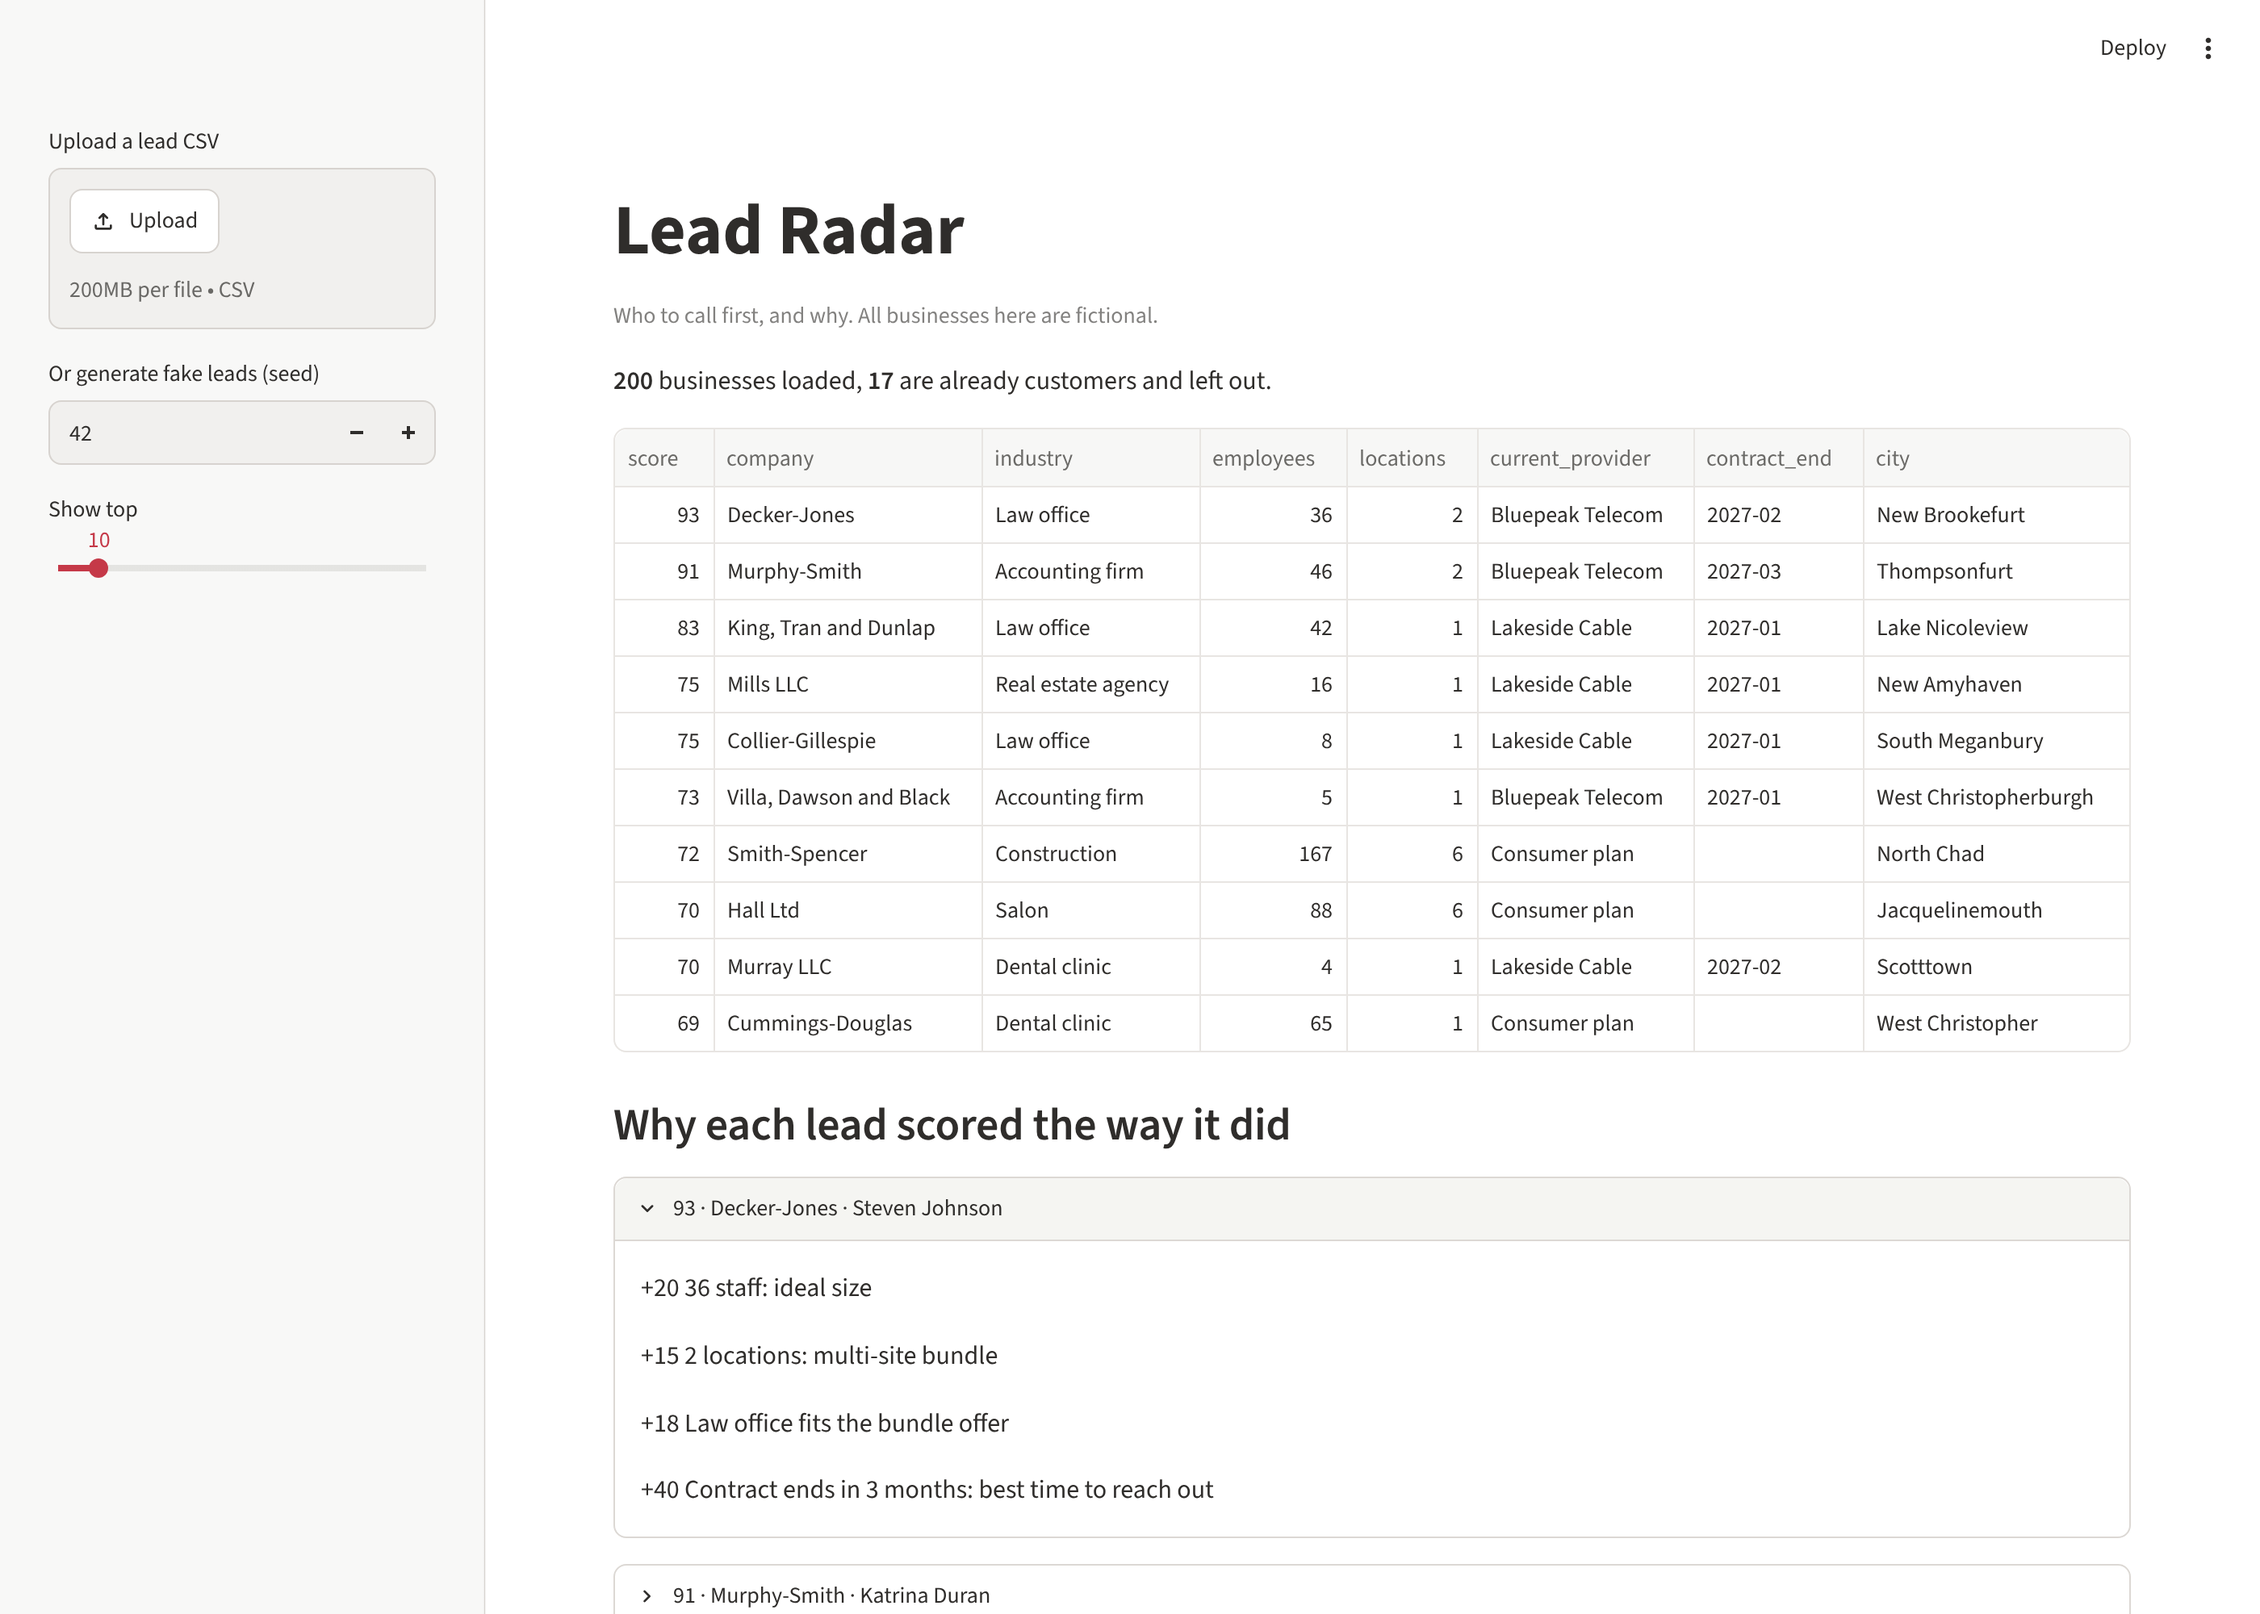
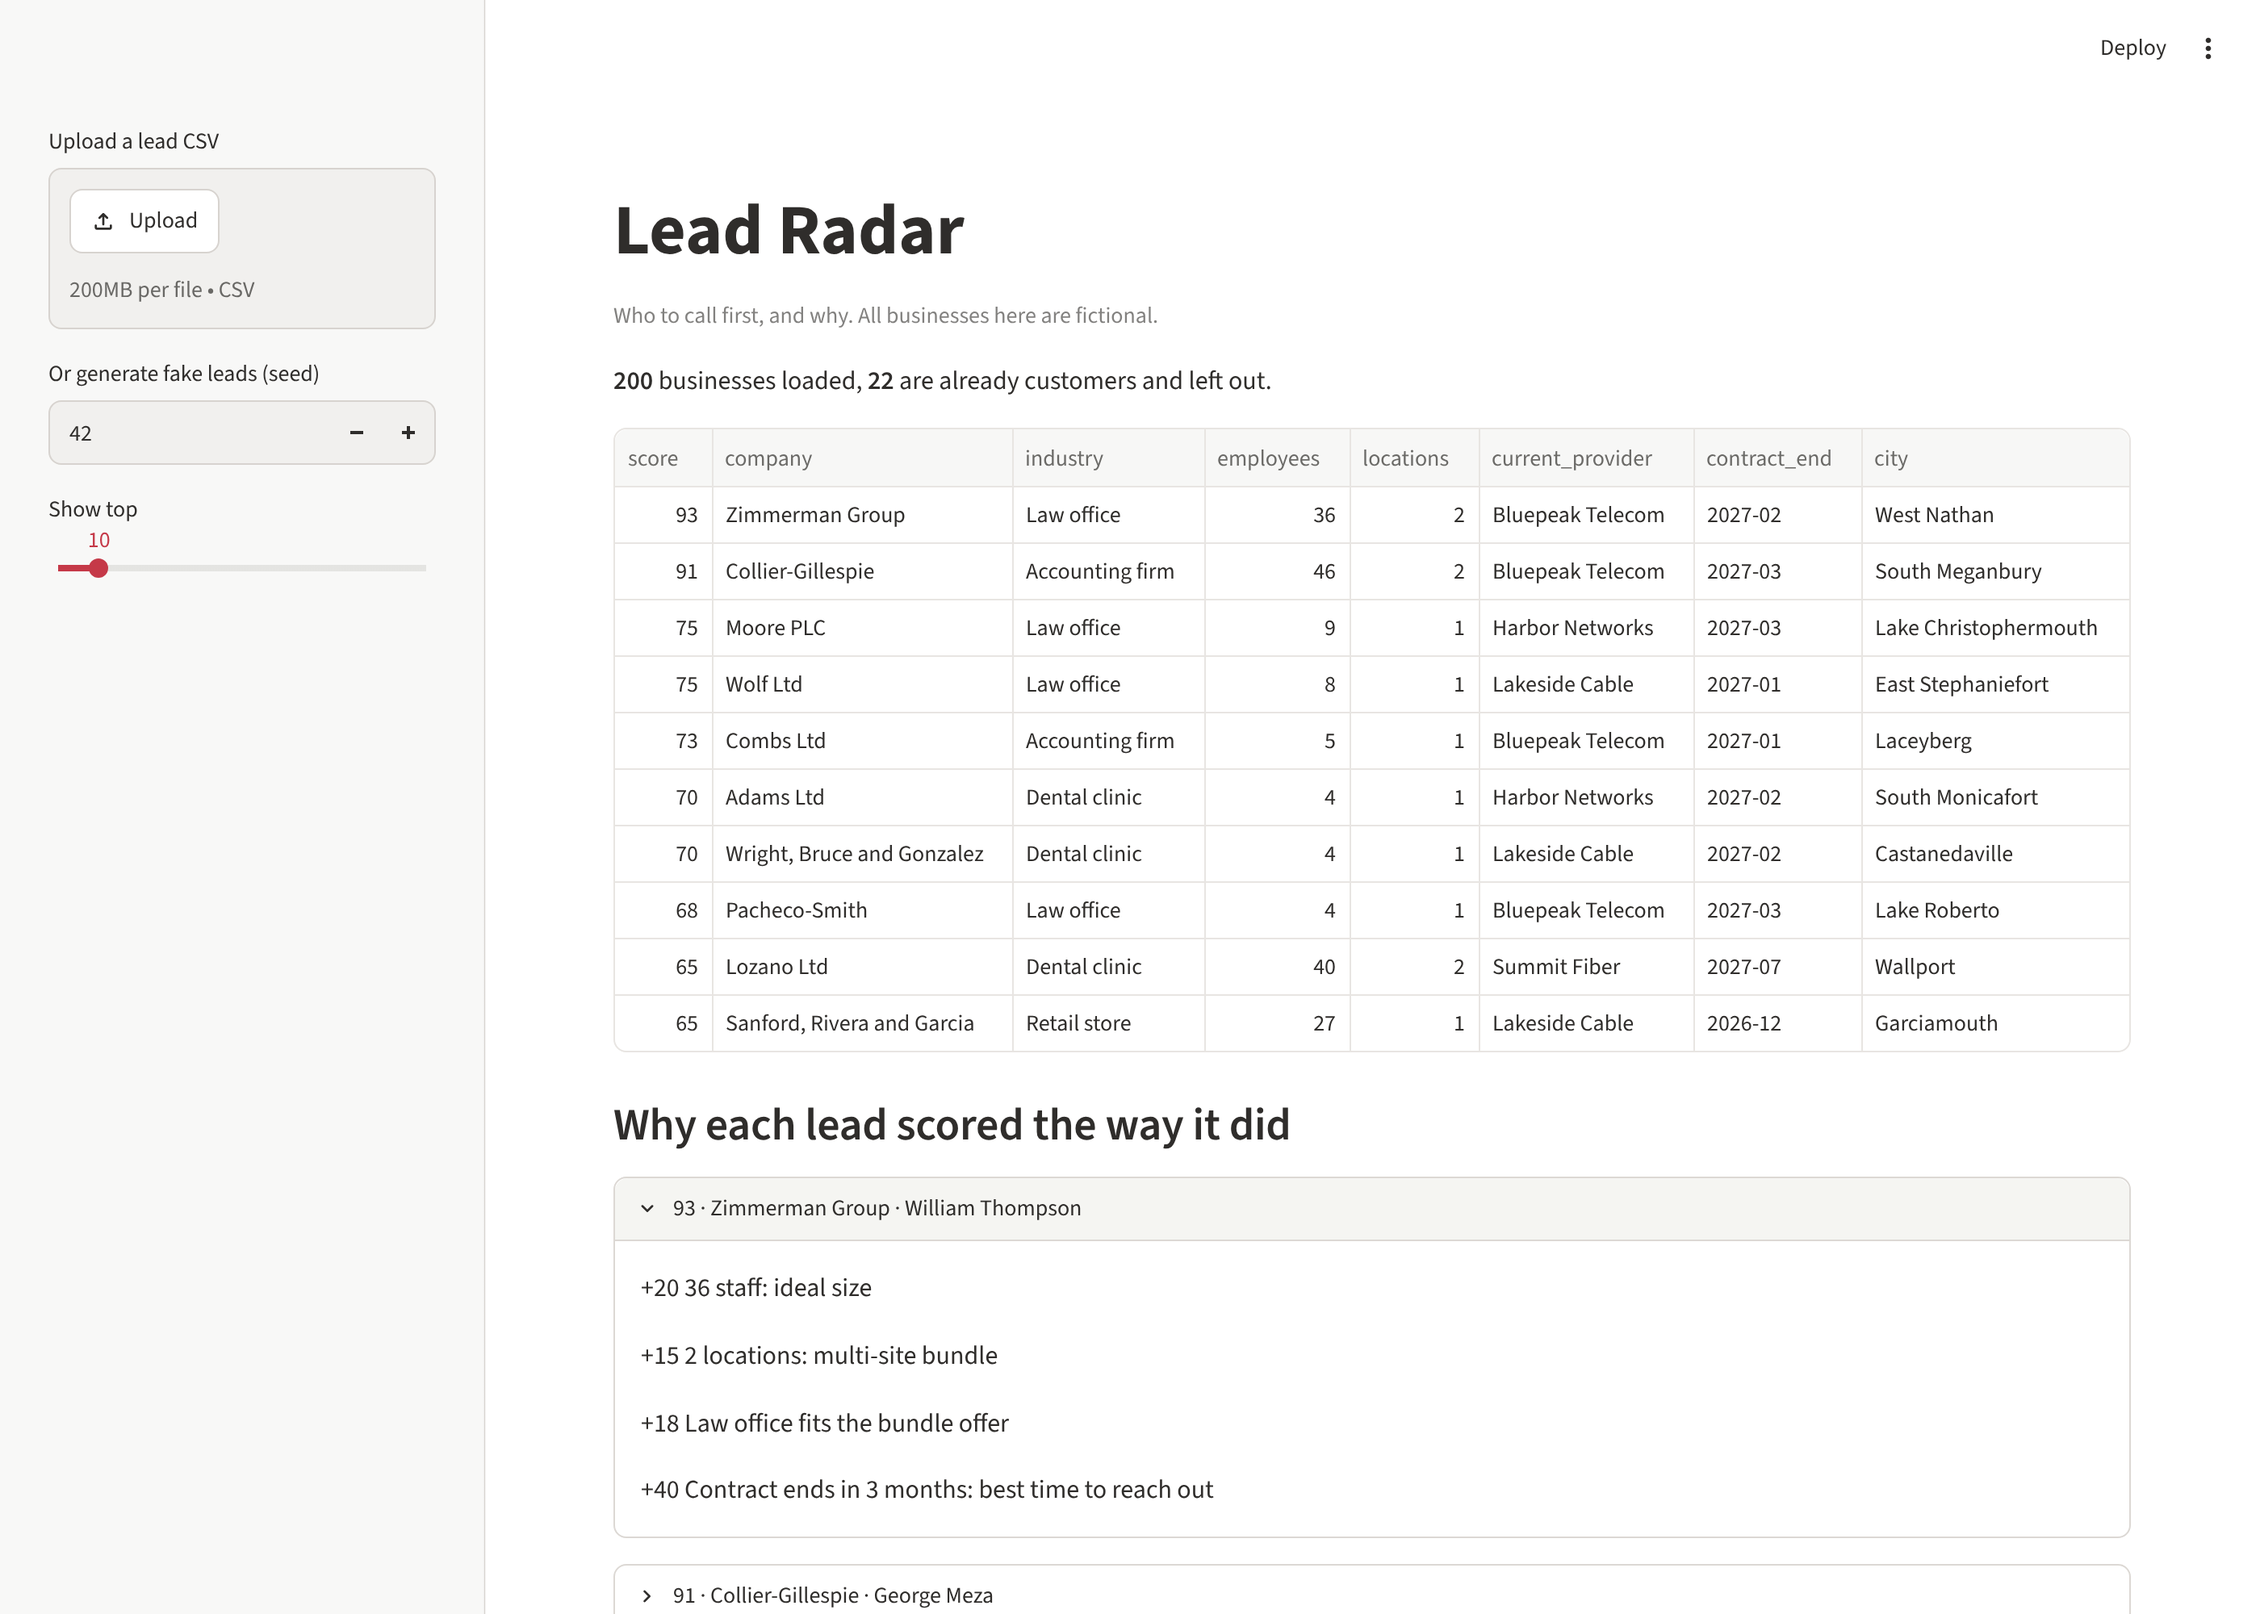
Tie consumer-plan use to business size
A 167-person firm on a consumer internet plan is not believable; consumer
plans now only appear for businesses under 20 staff.

Claude-Session: https://claude.ai/code/session_01E2kGs2brNKds5sVQt9URto

diff --git a/services/lead-radar/lead_radar/generate.py b/services/lead-radar/lead_radar/generate.py
@@ -75,8 +75,10 @@ def generate_leads(count: int = 200, seed: int = 42, today: date | None = None) 
             locations = rng.choices([1, 2, 3], weights=[70, 20, 10])[0]
         else:
             locations = rng.choices([1, 2, 3, rng.randint(4, 8)], weights=[40, 25, 20, 15])[0]
+        # Consumer plans are a small-shop habit (guess): common under 10 staff, rare above 20.
+        consumer_weight = 25 if employees < 10 else 8 if employees < 20 else 0
         provider = rng.choices(
-            [*COMPETITORS, NO_BUSINESS_PLAN, OUR_COMPANY], weights=[18, 18, 18, 18, 18, 10]
+            [*COMPETITORS, NO_BUSINESS_PLAN, OUR_COMPANY], weights=[18, 18, 18, 18, consumer_weight, 10]
         )[0]
         if provider == NO_BUSINESS_PLAN:
             contract_end = ""  # month-to-month, no business contract

diff --git a/data/README.md b/data/README.md
@@ -19,6 +19,6 @@ The generator is fake row by row but shaped like real Canadian small businesses:
 | Industry mix | Construction, professional services and health care are the largest groups | Same source, Table 3 |
 | Contract end | When a fixed term ends, service rolls to month-to-month, so "contract ended" means "can switch now" | [Rogers Small Business Terms of Service](https://rogers.com/support/terms/rogers-small-business-terms-of-service-and-other-important-information), section 2 |
 | Locations per business | **Guess.** No public Canadian figure found | n/a |
-| Share on consumer plans | **Guess (18%).** No Canadian figure found; an Australian NBN Co report puts it at 83% | [WhistleOut, Sept 2026](https://www.whistleout.com.au/Broadband/News/Most-small-businesses-are-using-consumer-NBN-plans) |
+| Share on consumer plans | **Guess:** about 1 in 4 under 10 staff, none above 20. No Canadian figure found; an Australian NBN Co report puts it at 83% of small businesses | [WhistleOut, Sept 2026](https://www.whistleout.com.au/Broadband/News/Most-small-businesses-are-using-consumer-NBN-plans) |
 
 Only the ten industries the tool models are generated, so each one's share is higher than in the full economy.
